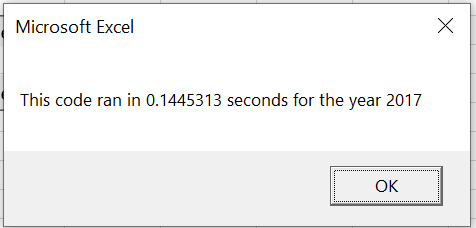
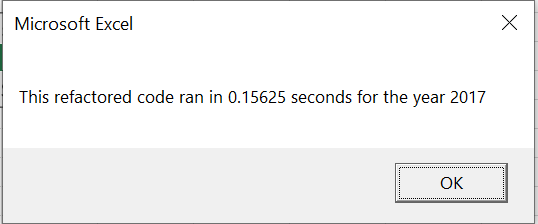
Add more images

Changed region(s): [[0.0, 0.0, 1.0, 1.0]]

diff --git a/README.md b/README.md
@@ -1,19 +1,65 @@
 # refactor-analysis
 Challenge assignment for Module 2
 
-In the future, Steve may want to perform his analysis on larger datasets, and he wants to know how fast his VBA code will compile the results. To help Steve, we need to add a script that will calculate how long the code takes to execute and output the elapsed time in a message box.
+Steve loves the workbook you prepared for him. At the click of a button, he can analyze an entire dataset. Now, to do a little more research for his parents, he wants to expand the dataset to include the entire stock market over the last few years. Although your code works well for a dozen stocks, it might not work as well for thousands of stocks. And if it does, it may take a long time to execute.
+
+In this challenge, you’ll edit, or refactor, the Module 2 solution code to loop through all the data one time in order to collect the same information that you did in this module. Then, you’ll determine whether refactoring your code successfully made the VBA script run faster. Finally, you’ll present a written analysis that explains your findings.
+
+Refactoring is a key part of the coding process. When refactoring code, you aren’t adding new functionality; you just want to make the code more efficient—by taking fewer steps, using less memory, or improving the logic of the code to make it easier for future users to read. Refactoring is common on the job because first attempts at code won’t always be the best way to accomplish a task. Sometimes, refactoring someone else’s code will be your entry point to working with the existing code at a job.
 
 Overview of Project
-* The purpose of this project is to observe which green energy stock returned a positive rate or not using data from 2017 and 2018 and how fast it takes for the code to run. The code would not only calculate the returns the green energy stock provided, it also measures how fast the code would work to compile the data. 
+* The purpose of this project is to observe which green energy stock returned a positive rate or not using data from 2017 and 2018 and how fast it takes for the code to run when it has been refactored. The code would not only calculate the returns the green energy stock provided, it also measures how fast the code would work to compile the data. 
 
 Results
 * In 2017, the only stock to not return a positive result is TERP with a -7.2% drop. Meanwhile, the highest returning return is DQ with a 199.4% return. In 2018, the only stocks with positive returns were ENPH and RUN with 81.9% and 84% returns respectively; meanwhile, the biggest drop was DQ with a -62.6%.
-* With a refactored code, compiling the data took 0.1445313 and 0.1523438 seconds for 2017 and 2018 respectively; meanwhile, using the unrefactored code took 0.59375 and 0.6909375 seconds for 2017 and 2018 respectively.    
+* With a refactored code, compiling the data took 0.15625 and 0.1445313 seconds for 2017 and 2018 respectively; meanwhile, using the unrefactored code took 0.6909375 and 0.59375 seconds for 2017 and 2018 respectively.    
 
 ![2017 Runtime w/Refactored Data](https://github.com/Itgotworse26/refactor-analysis/blob/main/resources/VBA_Challenge_2017.png)
 
+![2017 Runtime without/Refactored Data](https://github.com/Itgotworse26/refactor-analysis/blob/main/resources/VBA_Challenge_2017.png)
+
 ![2018 Runtime w/Refactored Data](https://github.com/Itgotworse26/refactor-analysis/blob/main/resources/VBA_Challenge_2018.png)
+
+![2018 Runtime without/Refactored Data](https://github.com/Itgotworse26/refactor-analysis/blob/main/resources/VBA_Challenge_2018.png)
 
 
 Summary
-* 
+* The biggest advantage of using the unrefactored code is that it doesn't have as many variables. 
+
+...
+3c) Get the number of rows to loop over
+   RowCount = Cells(Rows.Count, "A").End(xlUp).Row
+
+   '4) Loop through tickers
+   For i = 0 To 11
+       ticker = tickers(i)
+       totalVolume = 0
+       
+       '5) loop through rows in the data
+       Worksheets(yearValue).Activate
+       For j = 2 To RowCount
+       
+           '5a) Get total volume for current ticker
+           If Cells(j, 1).Value = ticker Then
+
+               totalVolume = totalVolume + Cells(j, 8).Value
+
+           End If
+           
+           '5b) get starting price for current ticker
+           If Cells(j - 1, 1).Value <> ticker And Cells(j, 1).Value = ticker Then
+
+               startingPrice = Cells(j, 6).Value
+
+           End If
+
+           '5c) get ending price for current ticker
+           If Cells(j + 1, 1).Value <> ticker And Cells(j, 1).Value = ticker Then
+
+               endingPrice = Cells(j, 6).Value
+
+           End If
+       Next j
+...
+
+* The for loop for the unrefactored
